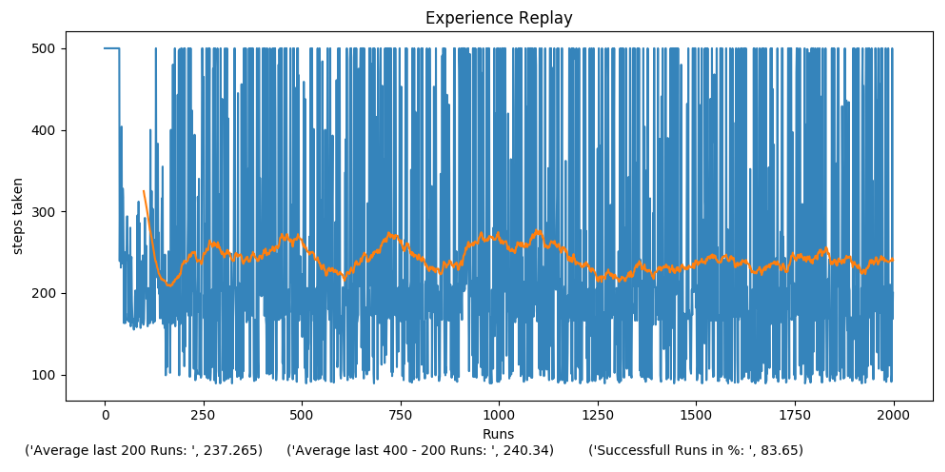
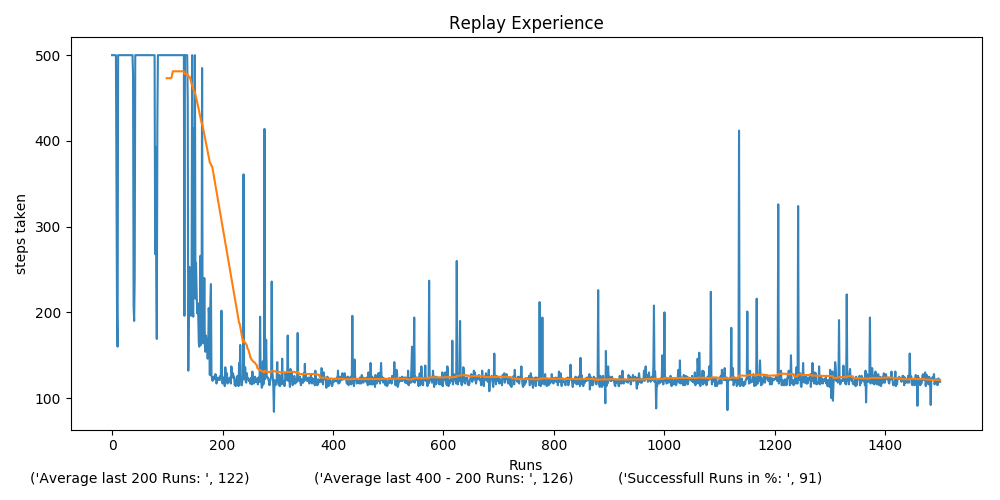
added final results

diff --git a/MountainCar.py b/MountainCar.py
@@ -11,8 +11,6 @@ from tqdm import tqdm, trange
 from NN import NN
 from ReplayMemory import ReplayMemory
 
-
-
 def optimize():
     # get action-value function for state + 1
     Q_1 = p_network(Variable(torch.from_numpy(state_1).type(torch.FloatTensor)))
@@ -98,15 +96,15 @@ steps_history = []
 
 # turn Experience Replay here on or off
 #######################################
-Experience_Replay = True ##############
+Experience_Replay = False ##############
 #######################################
 
 for run in trange(RUNS):
     state_0 = env.reset()
 
     for step in range(STEPS):
-        # if (run % 100 == 0):
-        #     env.render()
+        if (run % 50 == 0):
+              env.render()
 
         # get action-value function of state_0
         Q_0 = p_network(Variable(torch.from_numpy(state_0).type(torch.FloatTensor)))
@@ -124,7 +122,7 @@ for run in trange(RUNS):
 
         # Rewardfunction:
         # get reward based on car position
-        reward = state_1[0]
+        reward = state_1[0] +0.5
         # increase reward for task completion
         if state_1[0] >= 0.5:
             reward += 1
@@ -142,7 +140,7 @@ for run in trange(RUNS):
                 successes += 1
                 # Adjust epsilon
                 if epsilon >= MIN_EPSILON:
-                    epsilon *= .99
+                    epsilon *= .98
                 # Adjust learning rate
                 scheduler.step()
             # gather history
@@ -175,12 +173,12 @@ p = pd.Series(steps_history)
 ma = p.rolling(100).mean()
 plt.plot(p, alpha=0.9)
 plt.plot(ma)
-plt.text(100, 1, ("Average last 200 Runs: " , np.sum(steps_history[-200:])/200), horizontalalignment='center')
-plt.text(600,1, ("Average last 400 - 200 Runs: " , np.sum(steps_history[-400:-200])/200), horizontalalignment='center')
-plt.text(800,1, ("Successfull Runs in %: " , successes / RUNS * 100), horizontalalignment='center')
+plt.text(50, 1, ("Average last 200 Runs: " , int(np.sum(steps_history[-200:])/200)), horizontalalignment='center')
+plt.text(600,1, ("Average last 400 - 200 Runs: " , int(np.sum(steps_history[-400:-200])/200)), horizontalalignment='center')
+plt.text(1100,1, ("Successfull Runs in %: " , int(successes / RUNS * 100)), horizontalalignment='center')
 plt.xlabel('Runs')
 plt.ylabel('steps taken')
-plt.title('Replay Experience')
+plt.title('Basic Q - Learning')
 plt.show()
 
 
